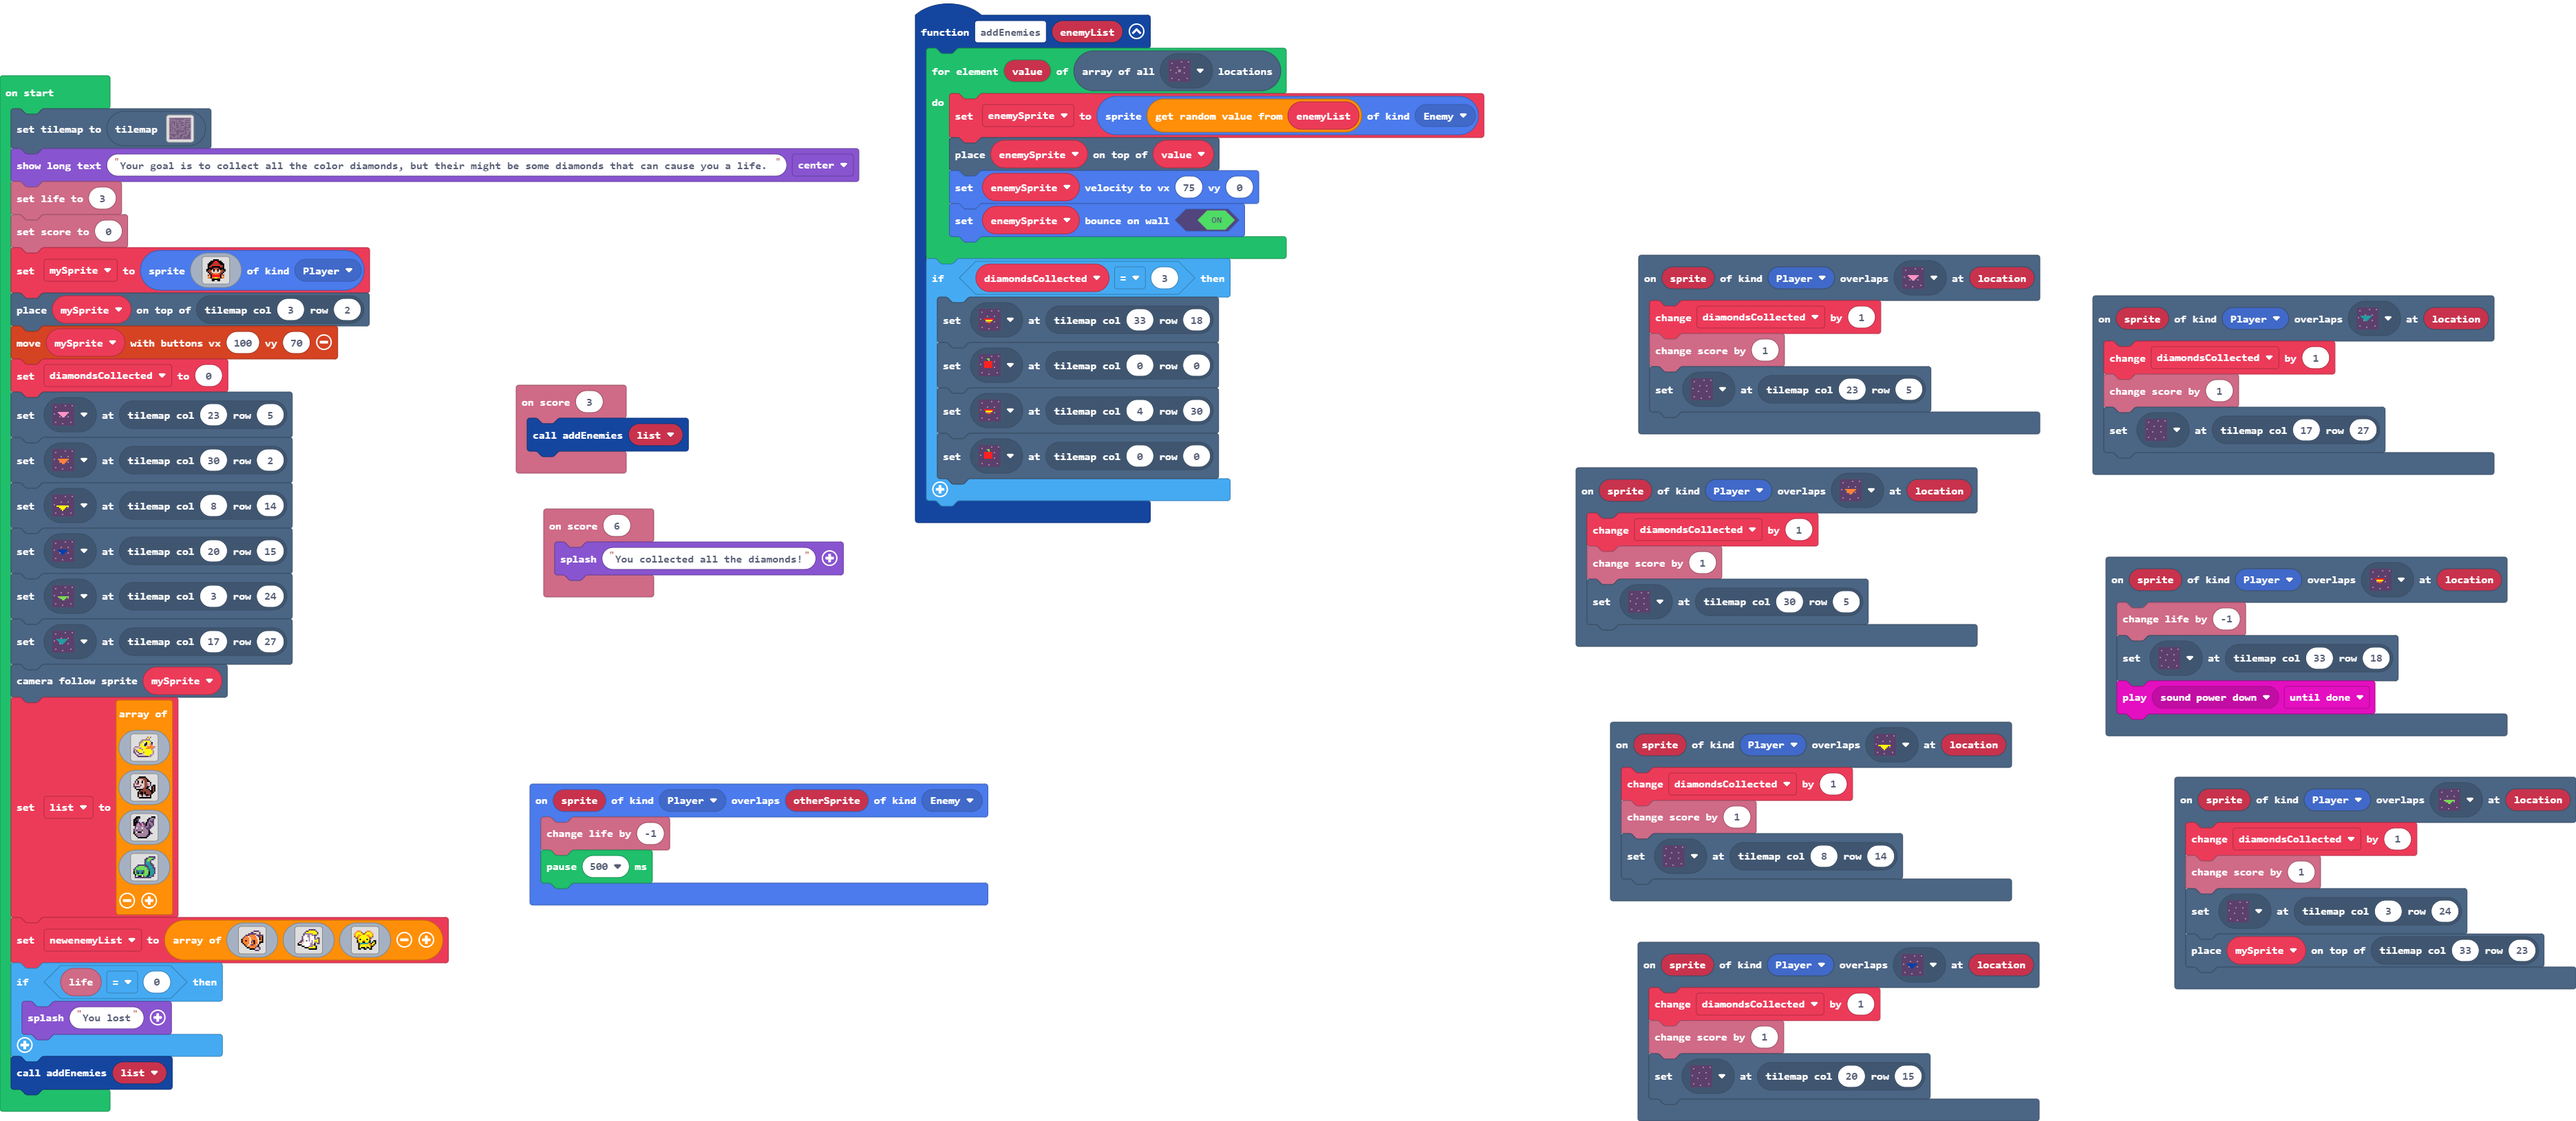
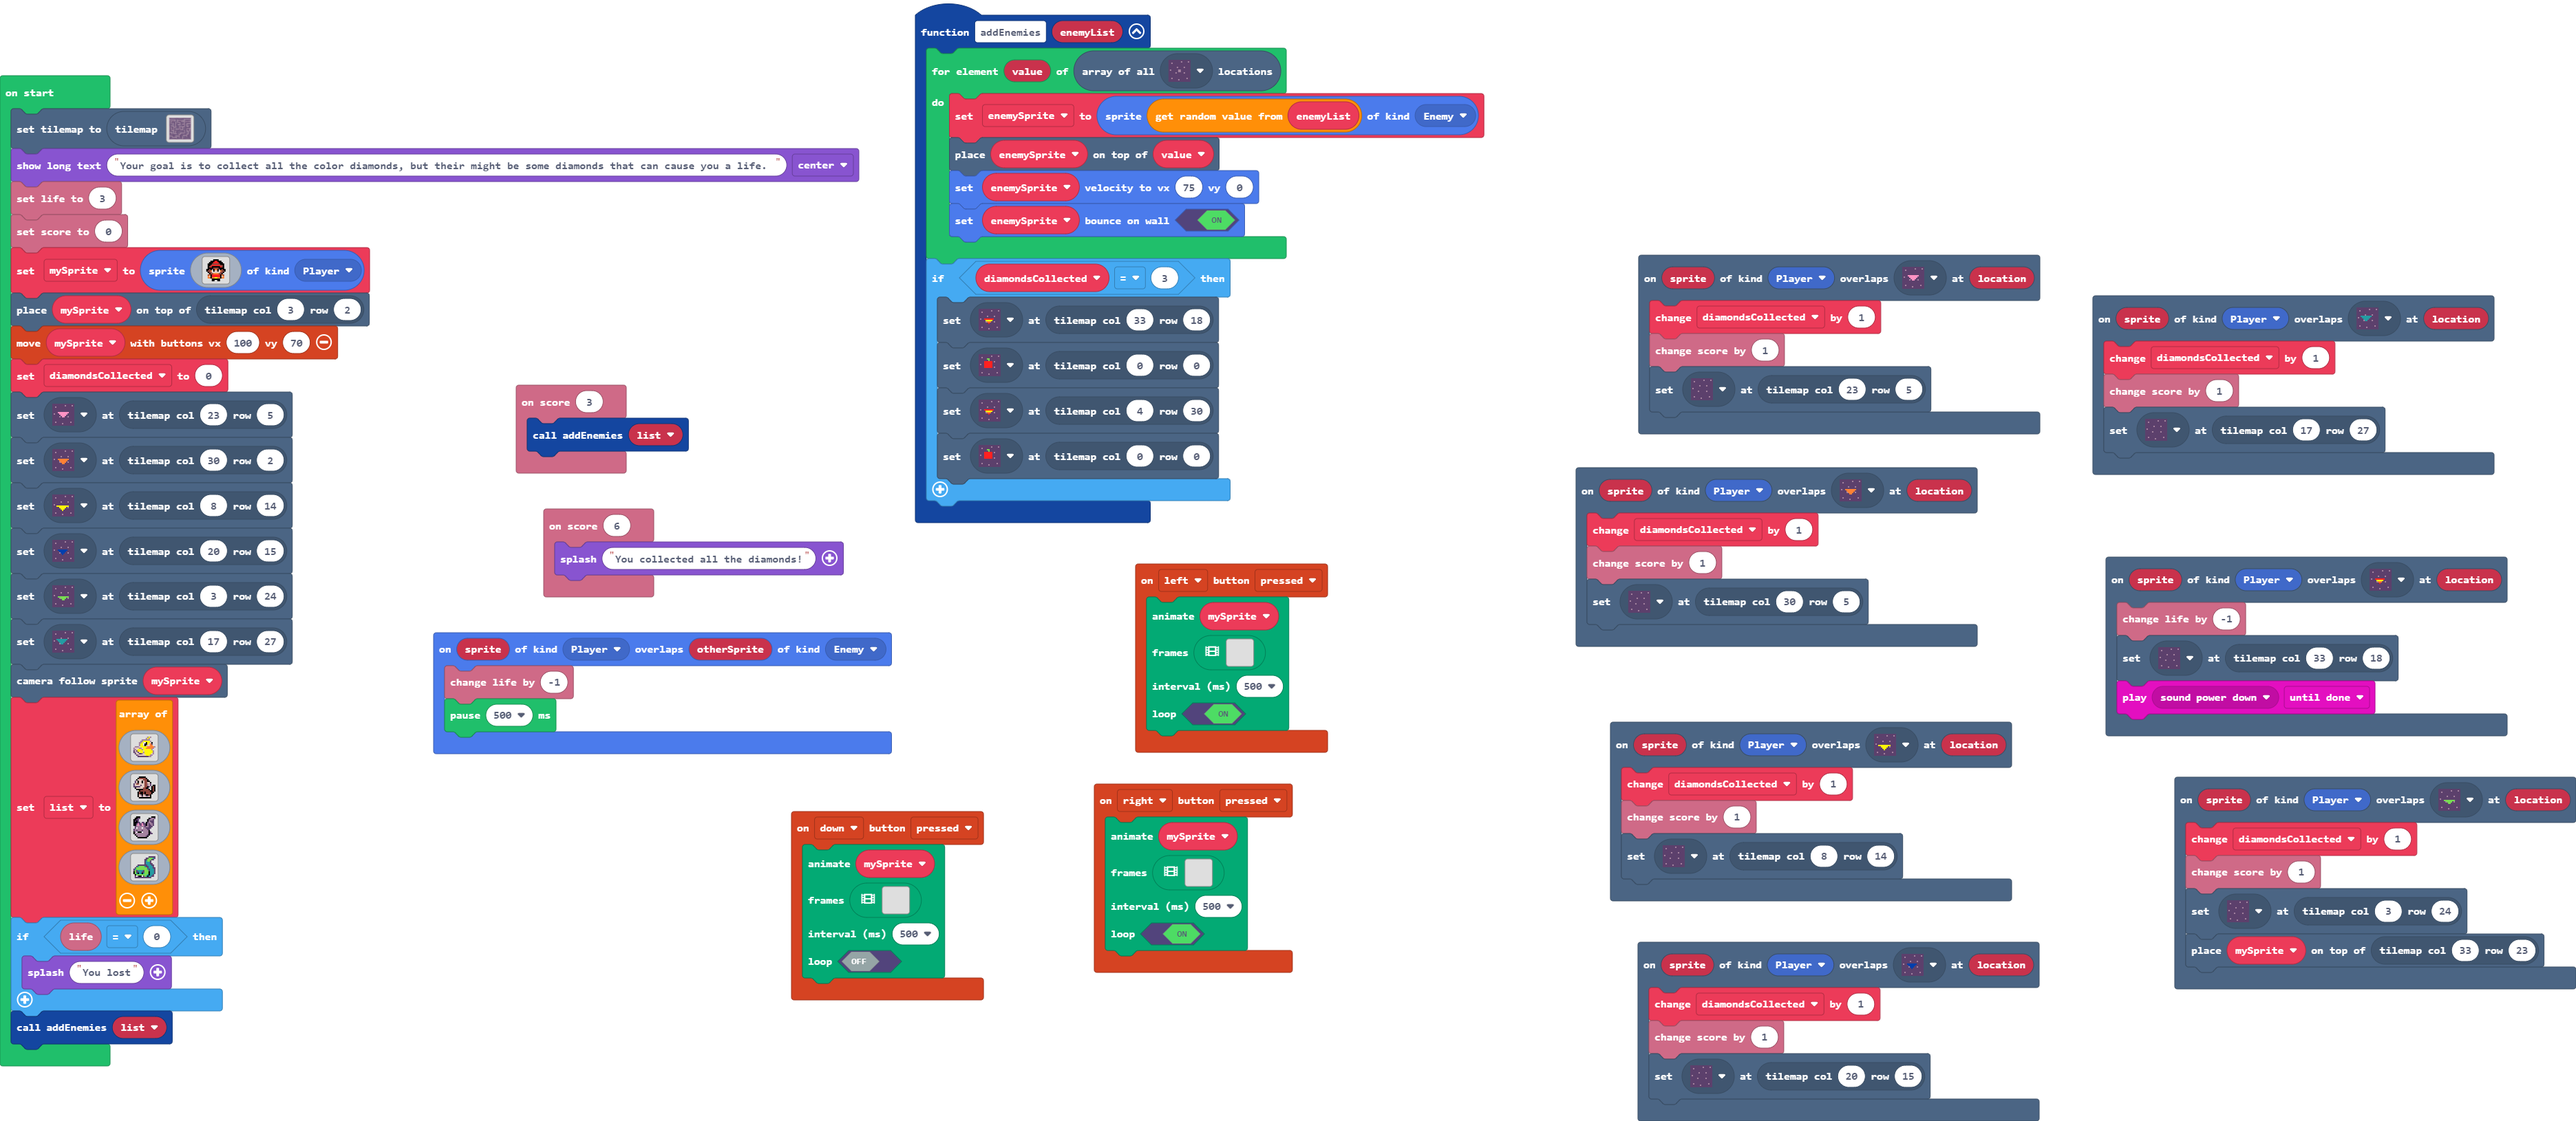
Update main.blocks, main.ts

Changed region(s): [[0.0, 0.4908, 0.5269, 1.0]]

diff --git a/main.ts b/main.ts
@@ -16,6 +16,31 @@ scene.onOverlapTile(SpriteKind.Player, assets.tile`myTile4`, function (sprite, l
     info.changeScoreBy(1)
     tiles.setTileAt(tiles.getTileLocation(20, 15), assets.tile`myTile`)
 })
+controller.left.onEvent(ControllerButtonEvent.Pressed, function () {
+    animation.runImageAnimation(
+    mySprite,
+    [img`
+        . . . . . . . . . . . . . . . . 
+        . . . . . . . . . . . . . . . . 
+        . . . . . . . . . . . . . . . . 
+        . . . . . . . . . . . . . . . . 
+        . . . . . . . . . . . . . . . . 
+        . . . . . . . . . . . . . . . . 
+        . . . . . . . . . . . . . . . . 
+        . . . . . . . . . . . . . . . . 
+        . . . . . . . . . . . . . . . . 
+        . . . . . . . . . . . . . . . . 
+        . . . . . . . . . . . . . . . . 
+        . . . . . . . . . . . . . . . . 
+        . . . . . . . . . . . . . . . . 
+        . . . . . . . . . . . . . . . . 
+        . . . . . . . . . . . . . . . . 
+        . . . . . . . . . . . . . . . . 
+        `],
+    500,
+    true
+    )
+})
 scene.onOverlapTile(SpriteKind.Player, assets.tile`myTile9`, function (sprite, location) {
     diamondsCollected += 1
     info.changeScoreBy(1)
@@ -25,6 +50,31 @@ scene.onOverlapTile(SpriteKind.Player, assets.tile`myTile3`, function (sprite, l
     diamondsCollected += 1
     info.changeScoreBy(1)
     tiles.setTileAt(tiles.getTileLocation(8, 14), assets.tile`myTile`)
+})
+controller.right.onEvent(ControllerButtonEvent.Pressed, function () {
+    animation.runImageAnimation(
+    mySprite,
+    [img`
+        . . . . . . . . . . . . . . . . 
+        . . . . . . . . . . . . . . . . 
+        . . . . . . . . . . . . . . . . 
+        . . . . . . . . . . . . . . . . 
+        . . . . . . . . . . . . . . . . 
+        . . . . . . . . . . . . . . . . 
+        . . . . . . . . . . . . . . . . 
+        . . . . . . . . . . . . . . . . 
+        . . . . . . . . . . . . . . . . 
+        . . . . . . . . . . . . . . . . 
+        . . . . . . . . . . . . . . . . 
+        . . . . . . . . . . . . . . . . 
+        . . . . . . . . . . . . . . . . 
+        . . . . . . . . . . . . . . . . 
+        . . . . . . . . . . . . . . . . 
+        . . . . . . . . . . . . . . . . 
+        `],
+    500,
+    true
+    )
 })
 function addEnemies (enemyList: Image[]) {
     for (let value of tiles.getTilesByType(assets.tile`myTile12`)) {
@@ -40,6 +90,31 @@ function addEnemies (enemyList: Image[]) {
         tiles.setTileAt(tiles.getTileLocation(0, 0), assets.tile`myTile18`)
     }
 }
+controller.down.onEvent(ControllerButtonEvent.Pressed, function () {
+    animation.runImageAnimation(
+    mySprite,
+    [img`
+        . . . . . . . . . . . . . . . . 
+        . . . . . . . . . . . . . . . . 
+        . . . . . . . . . . . . . . . . 
+        . . . . . . . . . . . . . . . . 
+        . . . . . . . . . . . . . . . . 
+        . . . . . . . . . . . . . . . . 
+        . . . . . . . . . . . . . . . . 
+        . . . . . . . . . . . . . . . . 
+        . . . . . . . . . . . . . . . . 
+        . . . . . . . . . . . . . . . . 
+        . . . . . . . . . . . . . . . . 
+        . . . . . . . . . . . . . . . . 
+        . . . . . . . . . . . . . . . . 
+        . . . . . . . . . . . . . . . . 
+        . . . . . . . . . . . . . . . . 
+        . . . . . . . . . . . . . . . . 
+        `],
+    500,
+    false
+    )
+})
 scene.onOverlapTile(SpriteKind.Player, assets.tile`myTile2`, function (sprite, location) {
     diamondsCollected += 1
     info.changeScoreBy(1)
@@ -171,56 +246,6 @@ img`
     . c c c c c c c c c c c c . . . 
     `
 ]
-let newenemyList = [img`
-    . . . . . . . . . . . . . . . . 
-    . . . . . . . . . c c c c . . . 
-    . . . . . . . c c d d d d c . . 
-    . . . . . c c c c c c d d c . . 
-    . . . c c c 4 4 4 4 d c c c c c 
-    . . c 4 4 1 4 4 4 4 4 1 c c 4 f 
-    . c 4 4 4 4 1 4 4 4 4 d 1 f 4 f 
-    f 4 4 4 4 4 1 4 4 4 4 4 1 f 4 f 
-    f 4 4 f 4 4 1 4 c f 4 4 1 4 4 f 
-    f 4 4 4 4 4 1 c 4 f 4 4 1 f f f 
-    . f 4 4 4 4 1 4 4 f 4 4 d f . . 
-    . . f 4 4 1 4 c c 4 4 d f . . . 
-    . . . f d 4 4 4 4 4 4 c f . . . 
-    . . . . f f 4 4 4 4 c d b c . . 
-    . . . . . . f f f f d d d c . . 
-    . . . . . . . . . . c c c . . . 
-    `, img`
-    . . . . . . . . c c c c c . . . 
-    . . . . . . c c 5 5 5 5 5 c . . 
-    . . . . . c 5 5 5 5 5 5 5 5 c . 
-    . . . . c b b b b b b 5 5 5 c . 
-    . . . . c 1 1 b b 1 b b c c . . 
-    . . . c 1 1 1 b b 1 1 1 c . . . 
-    . . . c 1 1 1 1 b 1 1 1 c . c c 
-    . . . c d 1 1 1 b 1 1 1 b b 5 c 
-    . . c c d 1 c 1 b 1 b 1 5 5 5 c 
-    . c c d d 1 1 1 1 1 b 1 b b 5 c 
-    f d d d 1 1 1 1 1 b b 1 f . c c 
-    f f f 1 1 1 1 1 1 b b b f . . . 
-    . . . f f 1 1 1 b b b 5 5 f . . 
-    . . . . . f f f 5 5 5 5 5 f . . 
-    . . . . . . . . f f f f f f . . 
-    . . . . . . . . . . . . . . . . 
-    `, img`
-    . . 4 4 4 . . . . 4 4 4 . . . . 
-    . 4 5 5 5 e . . e 5 5 5 4 . . . 
-    4 5 5 5 5 5 e e 5 5 5 5 5 4 . . 
-    4 5 5 4 4 5 5 5 5 4 4 5 5 4 . . 
-    e 5 4 4 5 5 5 5 5 5 4 4 5 e . . 
-    . e e 5 5 5 5 5 5 5 5 e e . . . 
-    . . e 5 f 5 5 5 5 f 5 e . . . . 
-    . . f 5 5 5 4 4 5 5 5 f . . f f 
-    . . f 4 5 5 f f 5 5 6 f . f 5 f 
-    . . . f 6 6 6 6 6 6 4 4 f 5 5 f 
-    . . . f 4 5 5 5 5 5 5 4 4 5 f . 
-    . . . f 5 5 5 5 5 4 5 5 f f . . 
-    . . . f 5 f f f 5 f f 5 f . . . 
-    . . . f f . . f f . . f f . . . 
-    `]
 if (info.life() == 0) {
     game.splash("You lost")
 }
